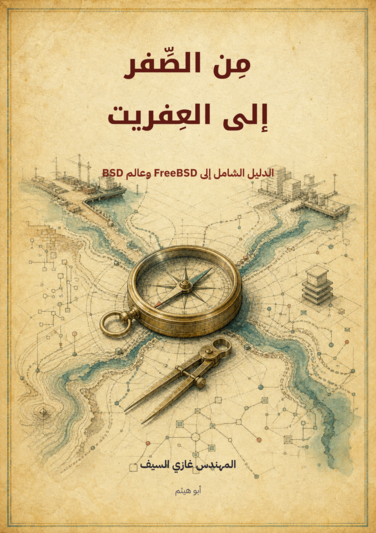
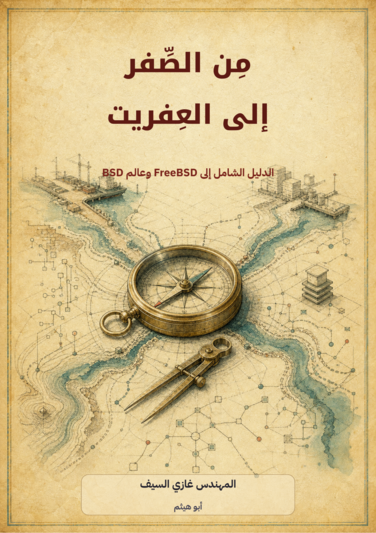
design: keep author credits legible on all covers

diff --git a/docs/RELEASE-AUDIT-v2.0.0.md b/docs/RELEASE-AUDIT-v2.0.0.md
@@ -16,8 +16,13 @@
   الممتد وGitHub Actions.
 - توحيد أغلفة الكتب العشرة على هوية الورق العتيق، مع صورة متفردة
   لكل كتاب، وتحديث صور README والموقع.
+- تثبيت بطاقة اسم رقّية بشفافية 50٪ على الأغلفة الأمامية العشرة كي
+  يبقى «المهندس غازي السيف — أبو هيثم» مقروءًا فوق تفاصيل الرسم،
+  وتوحيد عنوان الكتاب العاشر في الغلاف وصفحة العنوان على سطرين.
 - تحديث الإصدار والأرقام والروابط وصفحة المشروع ومكتبة الموقع إلى
   عشرة كتب و3,482 صفحة.
+- إضافة رزمة أغلفة تفاعلية إلى واجهة الموقع وضبطها لشاشات الهاتف
+  الطولية، مع تجديد كاش صور الأغلفة وصفحات القارئ بعد التصحيح.
 - اختبار قارئ الويب فعليًا في متصفح Chromium على سطح المكتب والهاتف،
   بما في ذلك فتح الكتاب والانتقال من الصفحة الأولى إلى الثانية.
 - مراجعة خريطة الحقوق والإفصاح وإخلاء المسؤولية وحدود الطباعة
@@ -28,16 +33,16 @@
 
 | الكتاب | PDF رقمي | متن الطباعة | EPUB | الصفحات: رقمي/متن |
 |---|---:|---:|---:|---:|
-| 1 — مِن الصفر إلى الجذر | 26.86 MiB | 8.68 MiB | 3.95 MiB | 628 / 626 |
-| 2 — ماك من الطرفية | 28.59 MiB | 9.85 MiB | 3.98 MiB | 682 / 680 |
-| 3 — مِن الصفر إلى المسؤول | 27.37 MiB | 8.96 MiB | 4.10 MiB | 671 / 669 |
-| 4 — مِن الصفر إلى العفريت | 28.40 MiB | 10.51 MiB | 4.05 MiB | 692 / 690 |
-| 5 — الطرفية بالممارسة | 19.56 MiB | 1.09 MiB | 3.77 MiB | 140 / 138 |
-| 6 — روح في الآلة | 19.82 MiB | 1.32 MiB | 3.60 MiB | 105 / 103 |
-| 7 — مِن الأمر إلى الأتمتة | 20.13 MiB | 1.25 MiB | 3.66 MiB | 132 / 130 |
-| 8 — الخادم الذي لا ينام | 19.81 MiB | 1.24 MiB | 3.55 MiB | 132 / 130 |
-| 9 — الشبكة من الطرفية | 19.64 MiB | 1.20 MiB | 3.61 MiB | 129 / 127 |
-| 10 — 10+ مشاريع كبرى من الطرفية | 19.66 MiB | 1.70 MiB | 3.07 MiB | 171 / 169 |
+| 1 — مِن الصفر إلى الجذر | 26.86 MiB | 8.68 MiB | 3.93 MiB | 628 / 626 |
+| 2 — ماك من الطرفية | 28.59 MiB | 9.85 MiB | 3.96 MiB | 682 / 680 |
+| 3 — مِن الصفر إلى المسؤول | 27.37 MiB | 8.96 MiB | 4.08 MiB | 671 / 669 |
+| 4 — مِن الصفر إلى العفريت | 28.40 MiB | 10.51 MiB | 4.03 MiB | 692 / 690 |
+| 5 — الطرفية بالممارسة | 19.56 MiB | 1.09 MiB | 3.75 MiB | 140 / 138 |
+| 6 — روح في الآلة | 19.82 MiB | 1.32 MiB | 3.58 MiB | 105 / 103 |
+| 7 — مِن الأمر إلى الأتمتة | 20.13 MiB | 1.25 MiB | 3.64 MiB | 132 / 130 |
+| 8 — الخادم الذي لا ينام | 19.81 MiB | 1.24 MiB | 3.53 MiB | 132 / 130 |
+| 9 — الشبكة من الطرفية | 19.64 MiB | 1.20 MiB | 3.59 MiB | 129 / 127 |
+| 10 — 10+ مشاريع كبرى من الطرفية | 19.66 MiB | 1.70 MiB | 3.05 MiB | 171 / 169 |
 
 المجموع 3,482 صفحة رقمية. فرق الصفحتين في كل متن طباعة هو الغلافان
 الأمامي والخلفي المحذوفان عمدًا. ملفات الغلاف الممتد لا تُبنى نهائيًا
@@ -93,7 +98,8 @@
   وجميع الخطوط المستعملة في ملفات PDF مضمّنة.
 - المعاينة البصرية: الغلاف وصفحة العنوان والحقوق والمقدمة والغلاف
   الخلفي للكتب العشرة، وصفحات الحقوق بالحجم الأكبر، ومعاينة غلاف
-  ممتد؛ لم يظهر تداخل أو خروج معروف عن الهوامش.
+  ممتد؛ لم يظهر تداخل أو خروج معروف عن الهوامش. وتحقق استخراج اسم
+  صاحب المشروع من الصفحة الأولى للملفات العشرة بعد إضافة بطاقة الاسم.
 - الموقع: نجح تحميل الصفحة بلا أخطاء JavaScript في الاختبار، ونجح
   قارئ الكتابين 7 و10 على سطح المكتب والهاتف في الانتقال إلى الصفحة
   الثانية مع العدد الصحيح للصفحات.

diff --git a/CHANGELOG.md b/CHANGELOG.md
@@ -25,10 +25,15 @@
   والتقنية والأمنية وتشغيل فحوص الأكواد والبناء.
 - توحيد أغلفة الكتب العشرة على ورق عتيق وهوية رسمية واحدة، مع صورة
   متفردة لكل كتاب وتحديث سجل المصدر والاستثناء من CC BY-SA 4.0.
+- إضافة بطاقة اسم رقّية بشفافية 50٪ إلى الأغلفة الأمامية العشرة كي
+  يبقى اسم «المهندس غازي السيف — أبو هيثم» واضحًا فوق الرسم، وتوحيد
+  عنوان الكتاب العاشر في الغلاف وصفحة العنوان على سطرين.
 - توسيع PDF وEPUB ومتون الطباعة ومولد الغلاف الممتد وفحوص الإصدار
   وCI لتشمل الكتب العشرة.
 - تحديث الموقع والقارئ ومكتبة التنزيل لتعرض الكتب العشرة، وتحديث
   README وصورة الموقع وروابط التنزيل.
+- جعل رزمة الأغلفة في واجهة الموقع تفاعلية بالمؤشر والسحب، وضبطها
+  للشاشات الطولية، وتجديد كاش الأغلفة وصفحات القارئ عند تحديث الكتب.
 - إضافة قائمة تحقق محافظة للطباعة والنشر توضح ما يثبته المشروع وما
   يتطلب ناشرًا أو مطبعة أو إجراءً رسميًا، دون اختلاق دار نشر أو ISBN
   أو رقم إيداع أو ادعاء مراجعة قانونية.
